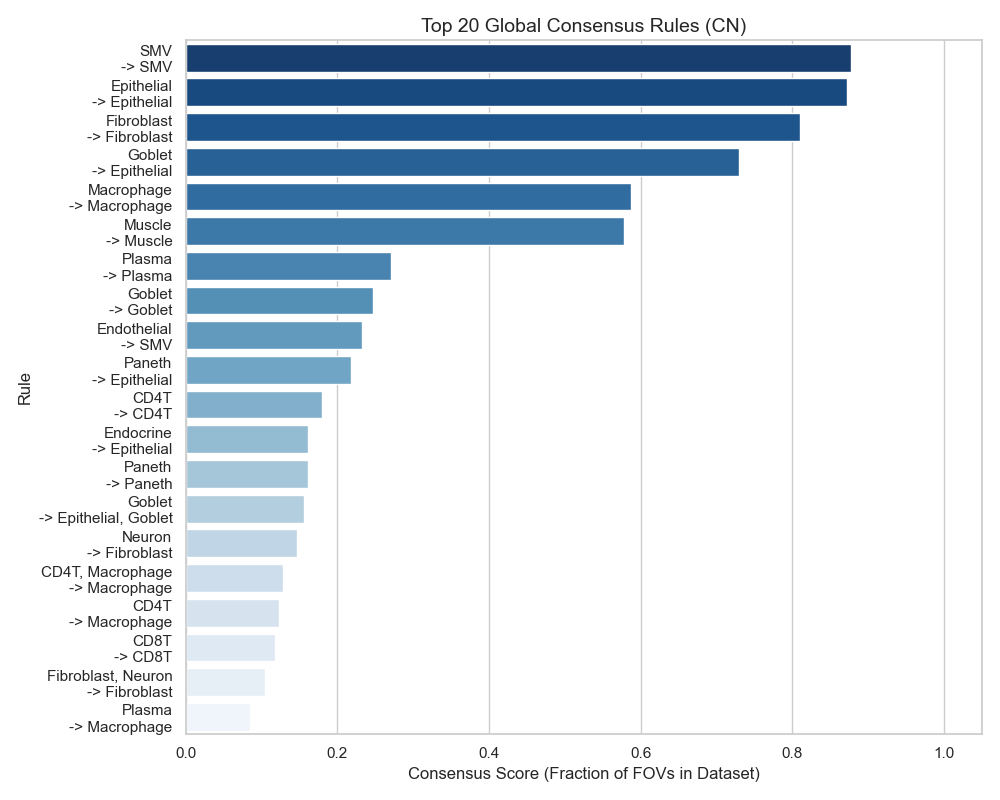
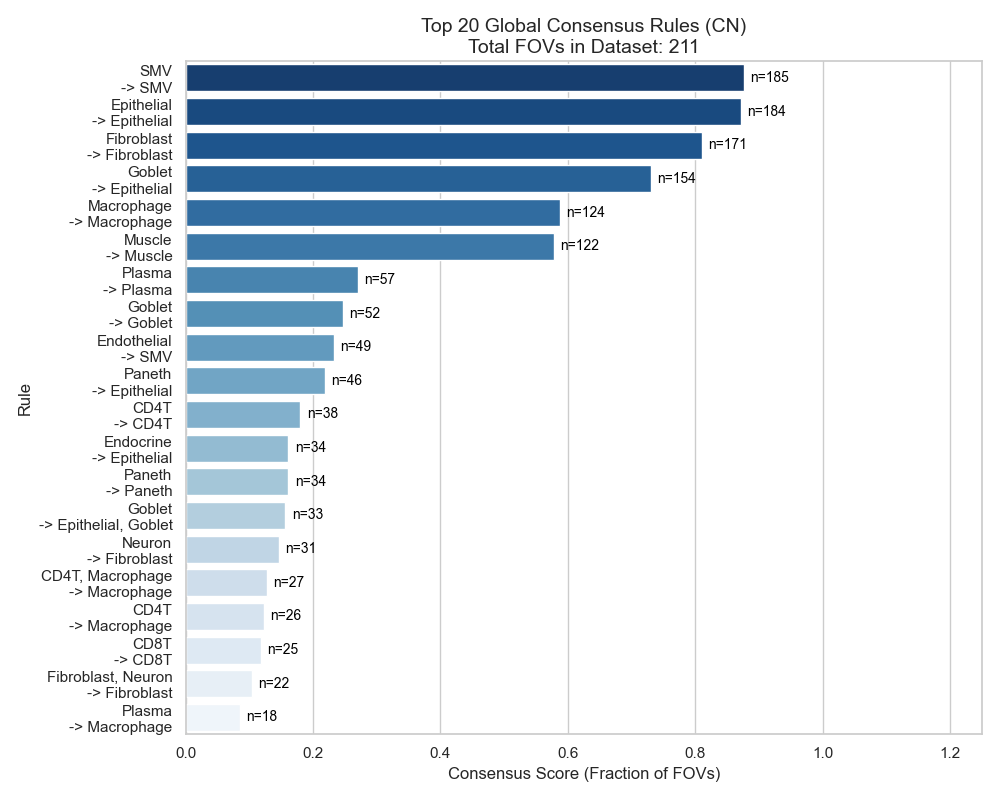
small improvements in consensus plots

diff --git a/visualization/visualize_consensus.py b/visualization/visualize_consensus.py
@@ -57,7 +57,7 @@ def clean_rule_name(ant, con):
         ant_str = ", ".join(ant_clean)
         con_str = ", ".join(con_clean)
         
-        return f"{ant_str}\n-> {con_str}"
+        return f"{ant_str} -> {con_str}"
     except:
         return f"{ant} -> {con}"
 
@@ -65,16 +65,27 @@ def plot_stage_consensus_heatmap(method, suffix, output_dir):
     """
     Plots a heatmap of Rules vs Pathological Stages.
     Color = Consensus Score.
+    X-Axis labels include (N=...) count of FOVs.
     """
     df = load_data(method, "stage", suffix)
     if df is None or df.empty:
         return
 
+    # Extract Stage Counts map: {Stage: Count}
+    # df has columns: 'Pathological stage', 'Total_FOVs_In_Stage'
+    # We must handle the column name carefully if it's 'Pathological stage' or just 'Stage'
+    stage_col = "Pathological stage"
+    
+    stage_counts = df[[stage_col, "Total_FOVs_In_Stage"]].drop_duplicates().set_index(stage_col)["Total_FOVs_In_Stage"].to_dict()
+
     # Create Clean Rule ID
     df["Rule"] = df.apply(lambda row: clean_rule_name(row["Antecedents"], row["Consequents"]), axis=1)
 
+    # Handle duplicates created by name cleaning (take max score)
+    df = df.groupby(["Rule", stage_col], as_index=False)["Consensus_Score"].max()
+
     # Pivot: Index=Rule, Columns=Stage, Values=Score
-    pivot_df = df.pivot(index="Rule", columns="Pathological stage", values="Consensus_Score")
+    pivot_df = df.pivot(index="Rule", columns=stage_col, values="Consensus_Score")
     
     # Fill NaN with 0 (Rule not present in that stage)
     pivot_df = pivot_df.fillna(0)
@@ -86,15 +97,19 @@ def plot_stage_consensus_heatmap(method, suffix, output_dir):
     # Take top 30 for readability
     pivot_df = pivot_df.head(30)
 
-    plt.figure(figsize=(10, 12))
+    # Rename Columns to include N
+    new_cols = {col: f"Stage {col}\n(N={stage_counts.get(col, '?')})" for col in pivot_df.columns}
+    pivot_df = pivot_df.rename(columns=new_cols)
+
+    plt.figure(figsize=(14, 12))
     sns.heatmap(pivot_df, annot=True, fmt=".2f", cmap="YlOrRd", cbar_kws={'label': 'Consensus Score'})
     plt.title(f"Stage Consensus Heatmap ({method}{suffix})\n(Top 30 Rules)", fontsize=14)
-    plt.xlabel("Pathological Stage")
+    plt.xlabel("") # Hide generic label since columns have it
     plt.ylabel("Rule")
     plt.tight_layout()
     
     save_path = os.path.join(output_dir, f"heatmap_stage_consensus_{method}{suffix}.png")
-    plt.savefig(save_path)
+    plt.savefig(save_path, bbox_inches='tight')
     plt.close()
     print(f"Saved {save_path}")
 
@@ -151,7 +166,7 @@ def plot_biopsy_jaccard_similarity(method, suffix, output_dir):
 
 def plot_global_consensus_bar(method, suffix, output_dir):
     """
-    Plots top global consensus rules.
+    Plots top global consensus rules with counts.
     """
     df = load_data(method, "global", suffix)
     if df is None or df.empty:
@@ -161,17 +176,34 @@ def plot_global_consensus_bar(method, suffix, output_dir):
     df["Rule"] = df.apply(lambda row: clean_rule_name(row["Antecedents"], row["Consequents"]), axis=1)
     
     # Top 20
-    top_df = df.head(20)
+    top_df = df.head(20).copy()
     
-    plt.figure(figsize=(10, 8))
-    sns.barplot(data=top_df, y="Rule", x="Consensus_Score", hue="Rule", palette="Blues_r", legend=False)
-    plt.title(f"Top 20 Global Consensus Rules ({method}{suffix})", fontsize=14)
-    plt.xlabel("Consensus Score (Fraction of FOVs in Dataset)")
-    plt.xlim(0, 1.05)
+    # Add labels for bars
+    # Assuming 'FOV_Count' and 'Total_FOVs_In_Dataset' exist
+    if "FOV_Count" in top_df.columns and "Total_FOVs_In_Dataset" in top_df.columns:
+        total_fovs = top_df["Total_FOVs_In_Dataset"].iloc[0]
+    else:
+        total_fovs = "?"
+
+    plt.figure(figsize=(14, 8))
+    ax = sns.barplot(data=top_df, y="Rule", x="Consensus_Score", palette="Blues_r")
+    
+    # Annotate bars
+    for i, p in enumerate(ax.patches):
+        if i < len(top_df):
+            row = top_df.iloc[i]
+            count = row["FOV_Count"]
+            ax.text(p.get_width() + 0.01, p.get_y() + p.get_height()/2, 
+                    f"n={count}", 
+                    va='center', fontsize=10, color='black')
+
+    plt.title(f"Top 20 Global Consensus Rules ({method}{suffix})\nTotal FOVs in Dataset: {total_fovs}", fontsize=14)
+    plt.xlabel("Consensus Score (Fraction of FOVs)")
+    plt.xlim(0, 1.25) # Add space for labels
     plt.tight_layout()
     
     save_path = os.path.join(output_dir, f"bar_global_consensus_{method}{suffix}.png")
-    plt.savefig(save_path)
+    plt.savefig(save_path, bbox_inches='tight')
     plt.close()
     print(f"Saved {save_path}")
 
